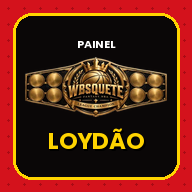
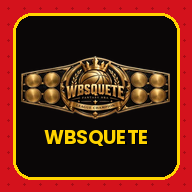
App com nome WBSQUETE; atalhos da home numa fileira compacta; conteúdo abaixo da barra do iPhone no app instalado
Claude-Session: https://claude.ai/code/session_01Xnq251B8GwZPvxssZWGTS2

Changed region(s): [[0.0938, 0.2812, 0.9062, 0.625], [0.2188, 0.6562, 0.7812, 0.7812], [0.4062, 0.1875, 0.625, 0.25]]

diff --git a/index.html b/index.html
@@ -6,8 +6,8 @@
 <meta name="theme-color" content="#0a0707">
 <meta name="apple-mobile-web-app-capable" content="yes">
 <meta name="mobile-web-app-capable" content="yes">
-<meta name="apple-mobile-web-app-status-bar-style" content="black-translucent">
-<meta name="apple-mobile-web-app-title" content="Loydão">
+<meta name="apple-mobile-web-app-status-bar-style" content="black">
+<meta name="apple-mobile-web-app-title" content="WBSQUETE">
 <title>Painel WBSQUETE</title>
 <link rel="preconnect" href="https://fonts.googleapis.com">
 <link rel="stylesheet" href="https://fonts.googleapis.com/css2?family=Anton&family=Archivo+Narrow:wght@500;600;700&display=swap">
@@ -1033,6 +1033,21 @@ td .tip::after,th .tip::after{left:50%;transform:translateX(-50%)}
 .rk-n.alt{color:#7fc8ff}.rk-n.ld{color:#fff;background:var(--vermelho);padding:0 3px;border:1px solid #000}
 .ros td.rkl{color:var(--amarelo);font-weight:700}
 
+/* atalhos compactos: uma fileira de 5 no celular */
+.cab-secao .atalhos{display:grid;grid-template-columns:repeat(5,minmax(0,1fr));gap:6px;align-items:stretch}
+.atalho{flex-direction:column;justify-content:center;gap:3px;padding:7px 2px;font-size:13px;text-align:center;box-shadow:2px 2px 0 #000;border-width:2px}
+.atalho svg{width:20px;height:20px}
+.atalho span{display:block;white-space:nowrap;overflow:hidden;text-overflow:ellipsis;max-width:100%}
+.cab-secao .atalhos .meu,.cab-secao .atalhos .baixar{grid-column:auto}
+.cab-secao .atalhos+.linha-meu{display:flex}
+.baixar{all:unset;cursor:pointer;grid-column:1/3!important;background:var(--amarelo);color:#000;border:2px solid #000;font-family:var(--display);font-size:13px;letter-spacing:.03em;padding:5px 8px;text-align:center;box-shadow:2px 2px 0 #000}
+.cab-secao .atalhos .meu{grid-column:3/6!important;margin:0;justify-content:flex-end;font-size:13px}
+.cab-secao .atalhos .meu:only-of-type{grid-column:1/6}
+@media (max-width:760px){.cab-secao .atalhos{grid-template-columns:repeat(5,minmax(0,1fr));gap:4px}.atalho{font-size:10.5px;padding:6px 1px;letter-spacing:0}.atalho svg{width:18px;height:18px}.cab-secao .atalhos .meu{font-size:12px}}
+/* app instalado: conteúdo começa abaixo da barra do iPhone */
+@media (display-mode: standalone){html{padding-top:env(safe-area-inset-top,0px)}}
+.cab-secao .atalhos:not(:has(.baixar)) .meu{grid-column:1/6!important;justify-content:flex-start}
+
 .pastas{display:grid;grid-template-columns:repeat(auto-fill,minmax(160px,1fr));gap:14px;padding-top:4px}
 .pasta{display:flex;flex-direction:column;gap:6px;background:var(--card);color:var(--texto);text-decoration:none;padding:16px 14px 12px;border:3px solid #000;box-shadow:5px 5px 0 #000;min-height:150px;transition:transform .12s;position:relative}
 .pasta:hover{transform:translate(-2px,-2px);box-shadow:7px 7px 0 #000;border-color:var(--amarelo)}
@@ -1094,7 +1109,7 @@ td .tip::after,th .tip::after{left:50%;transform:translateX(-50%)}
 <script src="hist.js"></script>
 <script src="radar.js"></script>
 <script>
-const VERSAO_PAINEL="20261108021834";
+const VERSAO_PAINEL="20261108022059";
 "use strict";
 /* ---------- constantes da liga ---------- */
 // id: [nome, slug, manager, sigla, cor]
@@ -1448,7 +1463,7 @@ function vConfrontos(){
   const mais=ordem.slice().sort((x,y)=>Math.abs(x.s.pa-x.s.pb)-Math.abs(y.s.pa-y.s.pb))[0];
   const dia=d.cur-d.s0+1;
   let h=`<div class="cab-secao"><span class="sobre">SEMANA ${d.wk} · DIA ${Math.min(dia,7)} DE 7 · ${esc(spRot(d.cur).toUpperCase())}</span>
-  <div class="atalhos"><button type="button" class="atalho" data-sel="${d.last}">${ICS.sel} Seleção</button><button type="button" class="atalho" data-ir="desempenhos">${ICS.fogo} Desempenhos hoje</button><button type="button" class="atalho" data-ir="times">${ICS.rk} Ranking</button><button type="button" class="atalho" data-ir="radar">${ICS.radar} Radar</button><button type="button" class="atalho" data-ir="museu">${ICS.museu} Museu</button>${typeof jaInstalado==="function"&&!jaInstalado()?`<button type="button" class="atalho baixar" data-instalar>📲 Baixar o app</button>`:""}<label class="meu">Meu time <select id="meuTime"><option value="0">escolher</option>${d.teams.map(t=>`<option value="${t.id}" ${t.id===meu?"selected":""}>${esc(T(t.id)[0])}</option>`).join("")}</select></label></div></div><div class="grade">`;
+  <div class="atalhos"><button type="button" class="atalho" data-sel="${d.last}">${ICS.sel} <span>Seleção</span></button><button type="button" class="atalho" data-ir="desempenhos">${ICS.fogo} <span>Desempenhos</span></button><button type="button" class="atalho" data-ir="times">${ICS.rk} <span>Ranking</span></button><button type="button" class="atalho" data-ir="radar">${ICS.radar} <span>Radar</span></button><button type="button" class="atalho" data-ir="museu">${ICS.museu} <span>Museu</span></button>${typeof jaInstalado==="function"&&!jaInstalado()?`<button type="button" class="baixar" data-instalar>📲 Baixar o app</button>`:""}<label class="meu">Meu time <select id="meuTime"><option value="0">escolher</option>${d.teams.map(t=>`<option value="${t.id}" ${t.id===meu?"selected":""}>${esc(T(t.id)[0])}</option>`).join("")}</select></label></div></div><div class="grade">`;
   ordem.forEach(({m,i,sc,s})=>{
     const [a,b]=m,A=T(a),B=T(b);
     const ra=d.teams.find(t=>t.id===a).rec,rb=d.teams.find(t=>t.id===b).rec;

diff --git a/sw.js b/sw.js
@@ -1,7 +1,7 @@
-/* Painel do Loydão: deixa o app instalável e abre rápido.
+/* WBSQUETE: deixa o app instalável e abre rápido.
    Página e scripts: sempre tenta a rede primeiro (pra pegar versão nova), cai pro cache sem internet.
    Imagens: cache primeiro. Dados da ESPN: nunca passam por aqui. */
-const C="loydao-v1";
+const C="wbsquete-v2";
 self.addEventListener("install",e=>{self.skipWaiting();e.waitUntil(caches.open(C).then(c=>c.addAll(["./","./index.html","./fotos.js","./hist.js","./radar.js","./img/cinturao.webp"]).catch(()=>{})))});
 self.addEventListener("activate",e=>e.waitUntil(self.clients.claim()));
 self.addEventListener("fetch",e=>{
